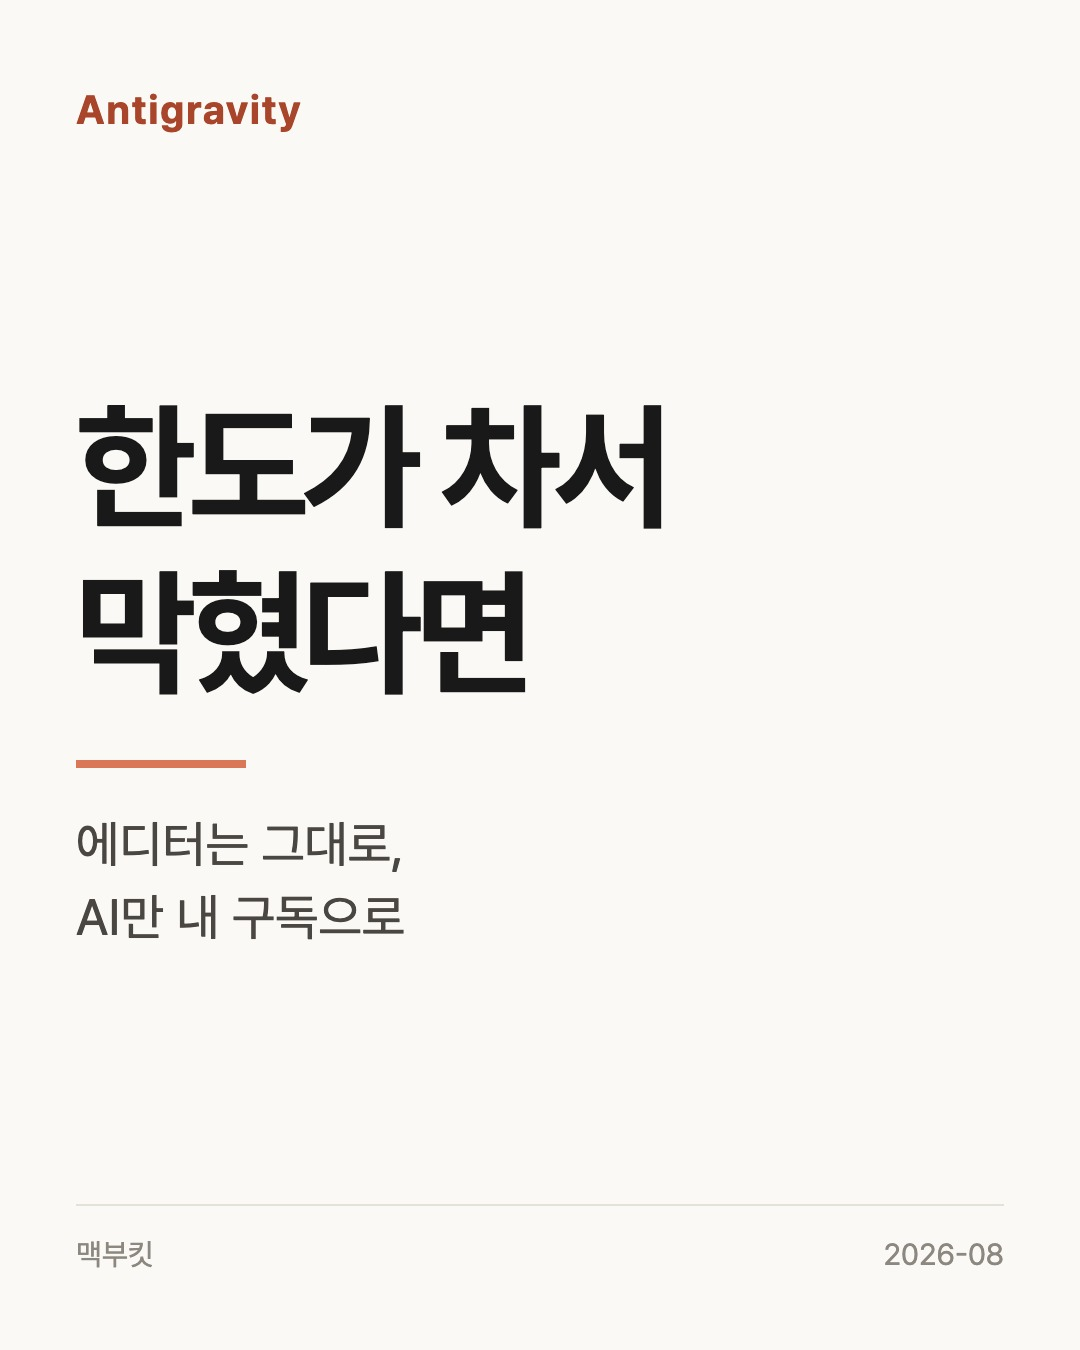
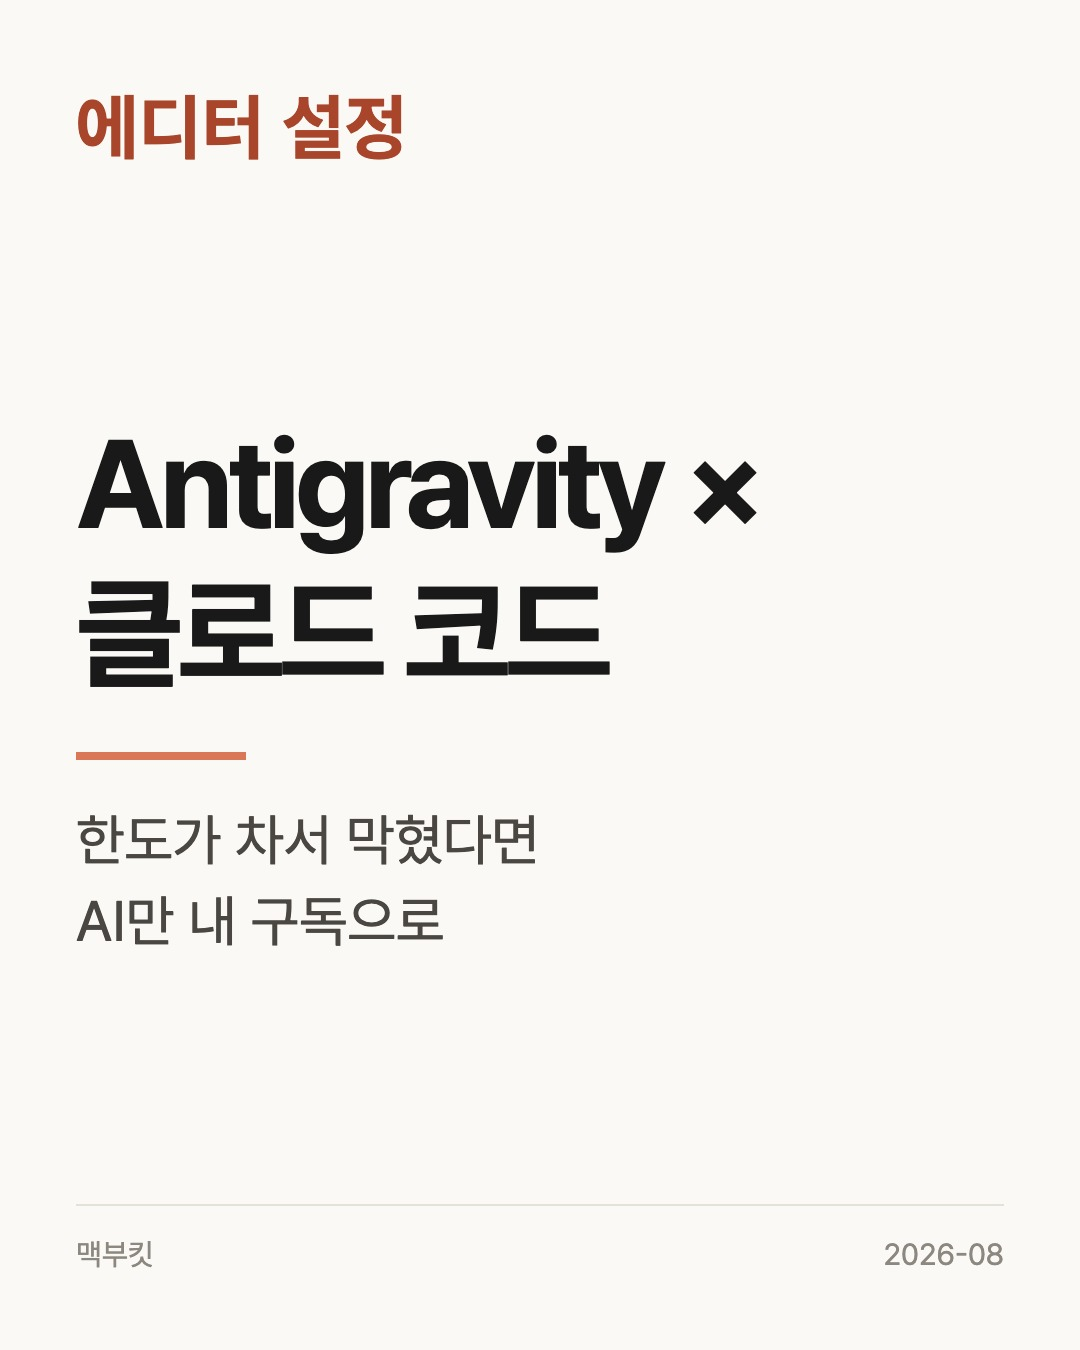
feat(macbookit): 카드에서 «무슨 글인지» 읽히게
목록은 카드를 230×300 으로 줄인다 — 그 축척에서 키커 40px 은 8px 이라
안 읽혔고, 제목은 후크뿐이라 주제가 안 보였다(2026-08-28 사용자 지적).

- 키커 40 → 72px, 부제 50 → 56px
- 구조 변경: 키커=분류, 제목 첫 줄=주제(도구·기능명), 부제=후크
- --title-px 추가 — 라틴 단어가 길면 줄여 카드 폭을 채운다
- 372·374·375 카드 재생성 후 교체(본문·발행일 보존)

Claude-Session: https://claude.ai/code/session_012tPPhjthmEbBcz8SBm9Lwy

diff --git a/macbookit-tistory/brand/skin-head-snippet.html b/macbookit-tistory/brand/skin-head-snippet.html
@@ -1,0 +1,17 @@
+<script>document.addEventListener('DOMContentLoaded',function(){document.querySelectorAll('pre').forEach(function(pre){if(pre.dataset.copyReady)return;pre.dataset.copyReady='1';var text=(pre.querySelector('code')||pre).innerText;pre.style.position='relative';var b=document.createElement('button');b.type='button';b.textContent='복사';b.setAttribute('aria-label','코드 복사');b.style.cssText='position:absolute;top:12px;right:12px;padding:6px 12px;font-size:12px;font-weight:700;color:#0066CC;background:#fff;border:1px solid #cfcdc6;border-radius:6px;cursor:pointer;line-height:1;z-index:2;box-shadow:0 1px 3px rgba(0,0,0,.08)';b.addEventListener('click',function(){var done=function(){b.textContent='복사됨';b.style.color='#fff';b.style.background='#0066CC';setTimeout(function(){b.textContent='복사';b.style.color='#0066CC';b.style.background='#fff';},1500);};if(navigator.clipboard&&navigator.clipboard.writeText){navigator.clipboard.writeText(text).then(done);}else{var ta=document.createElement('textarea');ta.value=text;document.body.appendChild(ta);ta.select();document.execCommand('copy');document.body.removeChild(ta);done();}});pre.appendChild(b);});});</script>
+
+<script>
+/* 맥부킷 — 코드블록에서만 선택·복사를 되살린다.
+   우클릭 금지 플러그인이 document 에 selectstart·contextmenu 를 걸어 두는데,
+   명령어 글에서 «복사»가 막히면 글의 쓸모가 사라진다.
+   본문 전체를 푸는 대신 pre/code 안에서만 이벤트 전파를 끊는다. */
+document.addEventListener('DOMContentLoaded', function () {
+  document.querySelectorAll('pre, pre code').forEach(function (el) {
+    el.style.userSelect = 'text';
+    el.style.webkitUserSelect = 'text';
+    ['selectstart', 'contextmenu', 'dragstart', 'copy'].forEach(function (ev) {
+      el.addEventListener(ev, function (e) { e.stopPropagation(); }, true);
+    });
+  });
+});
+</script>

diff --git a/macbookit-tistory/brand/card-vertical.css b/macbookit-tistory/brand/card-vertical.css
@@ -9,9 +9,9 @@ body{margin:0;width:1080px;height:1350px;background:var(--bg);
      font-family:"Pretendard-Regular","Apple SD Gothic Neo",sans-serif;
      display:flex;flex-direction:column;justify-content:space-between;
      padding:86px 76px 78px;box-sizing:border-box}
-.top{font-size:40px;color:var(--kicker);letter-spacing:.04em;font-weight:700}
+.top{font-size:72px;color:var(--kicker);letter-spacing:.01em;font-weight:700;line-height:1.15}
 .mid h1{margin:0;font-size:138px;line-height:1.2;color:var(--title);font-weight:700;letter-spacing:-.045em}
 .mid .rule{border-bottom:8px solid var(--rule);width:170px;margin:44px 0 40px}
-.mid .sub{font-size:50px;color:var(--sub);line-height:1.45;font-weight:500}
+.mid .sub{font-size:56px;color:var(--sub);line-height:1.45;font-weight:500}
 .bot{display:flex;justify-content:space-between;align-items:flex-end;
      border-top:2px solid var(--hair);padding-top:30px;font-size:30px;color:var(--foot)}

diff --git a/macbookit-tistory/brand/make_card.py b/macbookit-tistory/brand/make_card.py
@@ -39,9 +39,12 @@ def main() -> int:
     ap.add_argument("--date", default="2026-08")
     ap.add_argument("--palette", choices=sorted(PALETTES), default="clay",
                     help="clay=Claude code · blue=Apple & Mac")
+    ap.add_argument("--title-px", type=int, default=138,
+                    help="제목 크기. 라틴 단어가 길면 줄인다(기본 138)")
     a = ap.parse_args()
 
-    html = TPL.format(css=BRAND / "card-vertical.css", palette=PALETTES[a.palette],
+    pal = PALETTES[a.palette] + f"\n.mid h1{{font-size:{a.title_px}px}}"
+    html = TPL.format(css=BRAND / "card-vertical.css", palette=pal,
                       kicker=a.kicker,
                       title=a.title.replace("|", "<br>"),
                       sub=a.sub.replace("|", "<br>"), date=a.date)
